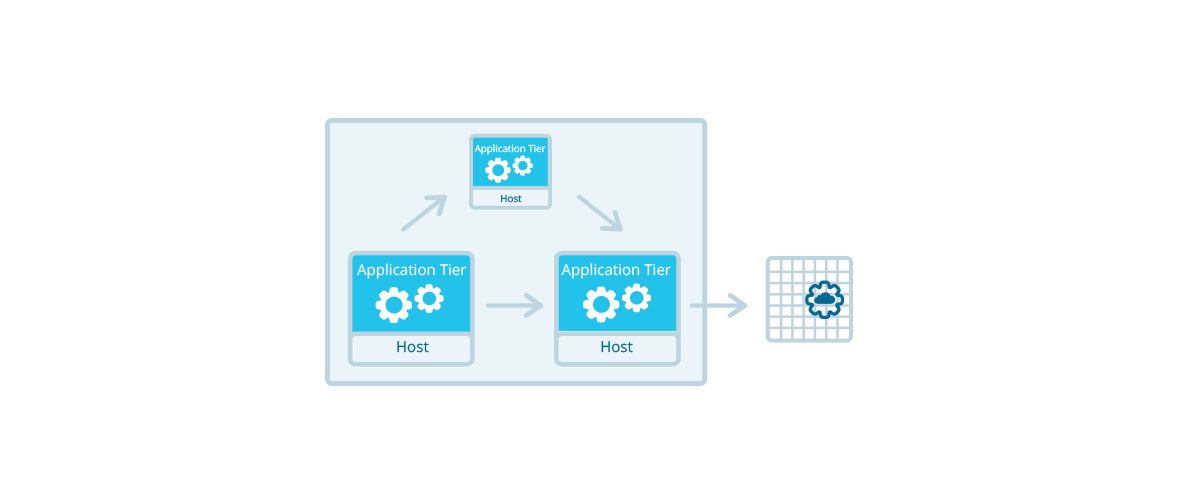
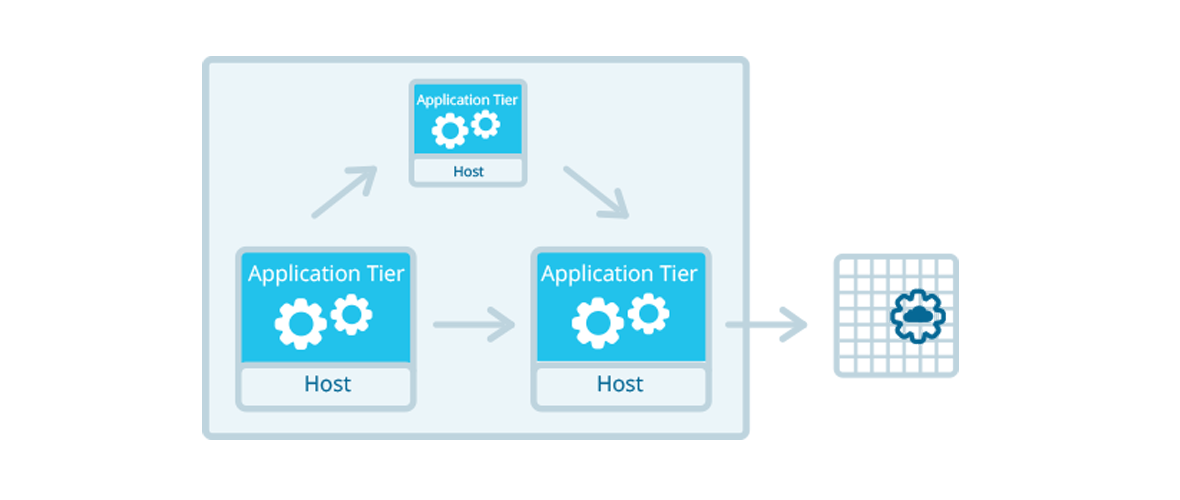
last pics

Changed region(s): [[0.1525, 0.09, 0.8237, 0.9]]

diff --git a/how-it-works.html b/how-it-works.html
@@ -48,7 +48,8 @@ category: Product
 												   </div>
 												<div class="tab-pane" id="toptwo">
 														<div class="field-content"><p>The Cloudify orchestrator uses the pre-defined blueprint to install your application on the cloud end to end: from VM provisioning all the way to application code deployment and dynamic wiring of your application's dependencies.</p>
-														<p><img alt="" src="/img/singleclick.png" width="600"></p>
+														<div class="aligncenter">
+														<p><img alt="" src="/img/singleclick.png" width="600"></p></div>
 														<div class="cloudify-blue-border">
 															Cloudify applies a particular cloud API through the Cloud Driver layer. The Cloud Driver creates the VMs and installs Cloudify agents on each one. From that point, Cloudify Agents are orchestrated to install and start your application according to the blueprint.</div></div>
 												</div>
